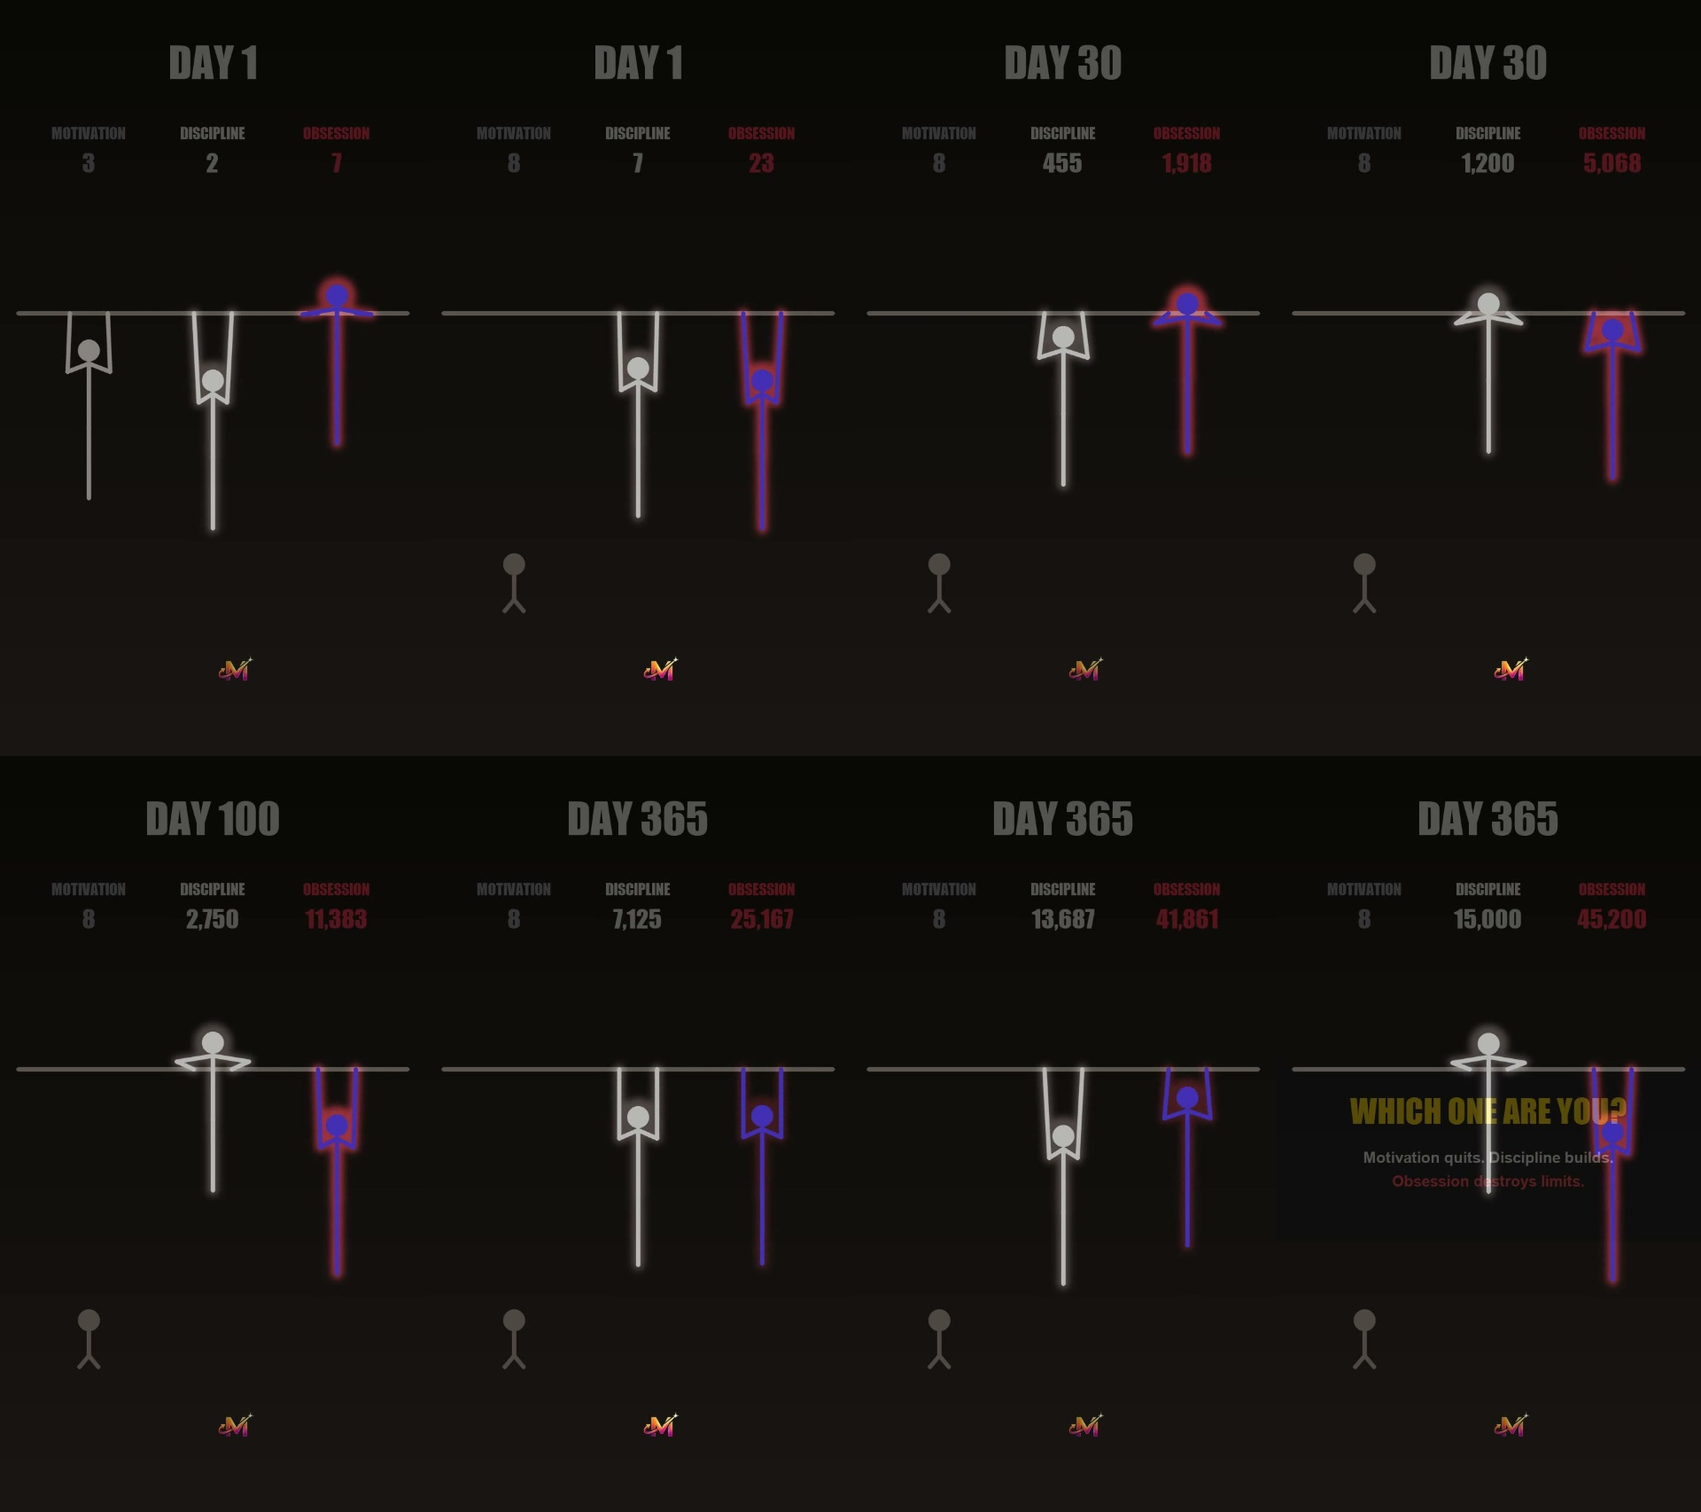
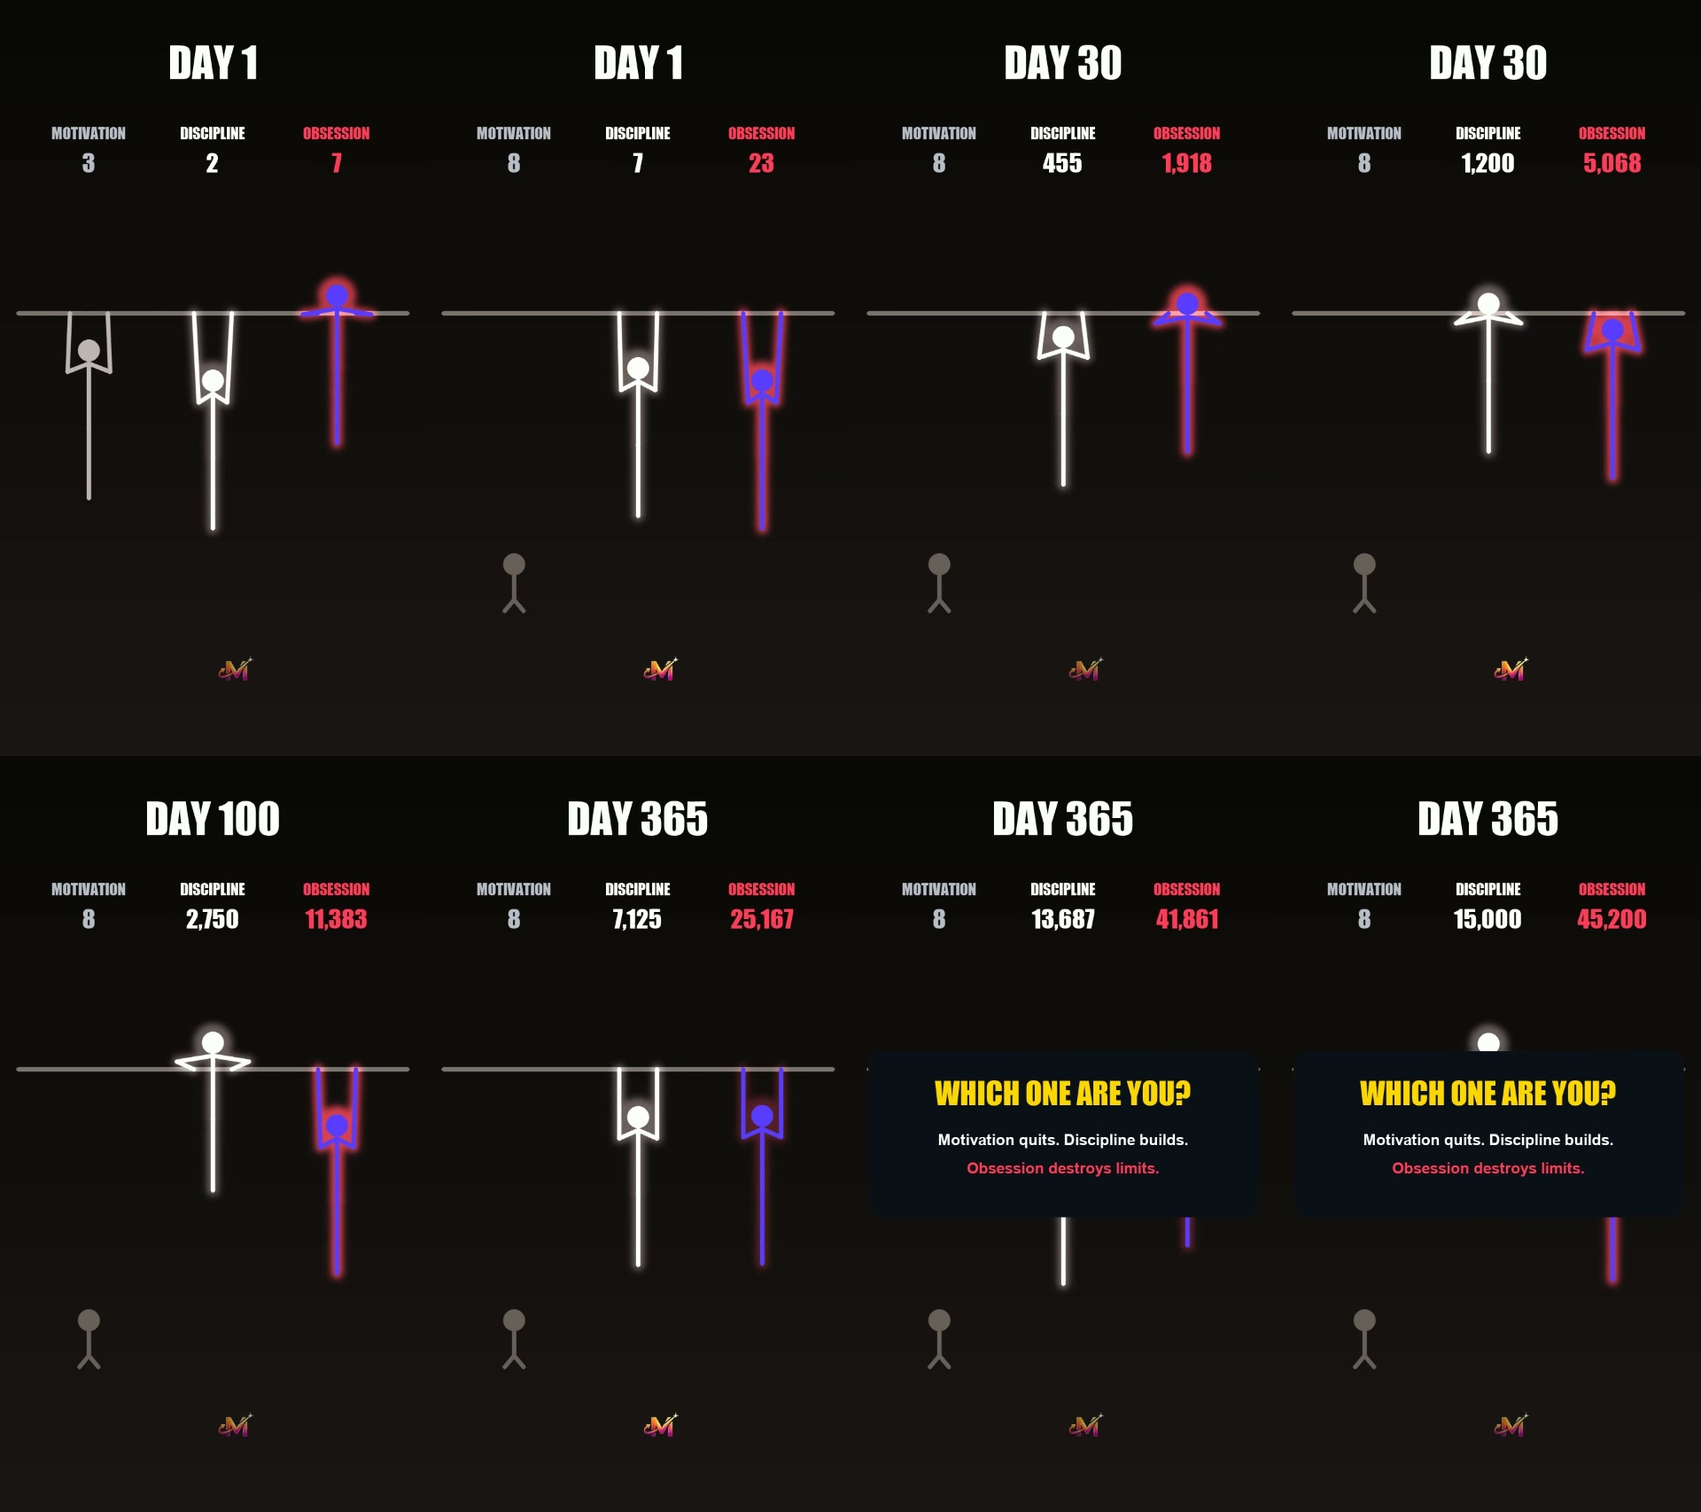
Deploy Motivation Tales: 10 High-CTR Covers, fixed card rendering, and full packet integration

diff --git a/nalkudil-social-studio/catalog.js b/nalkudil-social-studio/catalog.js
@@ -11612,7 +11612,7 @@ window.PUBLISHING_CATALOG = {
     "situation": "365-Day Pull-Up Test: Motivation quits at rep 8, Discipline builds daily, Obsession destroys limits.",
     "moral": "Motivation quits at rep 8. Discipline builds daily. Obsession has no limits. Which one are you?",
     "video_filename": "motivation_tales_001_discipline_vs_obsession_master.mp4",
-    "cover_url": "assets/motivations/mcr_verification_motivation_001.jpg",
+    "cover_url": "assets/motivations/cover_motivation_001.jpg",
     "title": "Motivation Tales: Ep 1 | Motivation vs Discipline vs Obsession ⚡ #Shorts #TheLoop",
     "description": "\"Motivation quits at rep 8. Discipline builds daily. Obsession destroys limits. Which one are you?\"\n\n⚡ 365-DAY PULL-UP TEST:\n- Motivation: Day 1 (quits at rep 8).\n- Discipline: Day 365 (15,000 reps, steady consistency).\n- Obsession: Day 365 (45,200 reps, limitless intensity).\n\n───────────────\n⚡ SERIES: Motivation Tales (Minimalist Animated Life Lessons)\n🔁 CHANNEL: The Loop Vid (@theloopvid)\n🕒 DAILY DROP: 10:30 PM IST (Bedtime Mindset Reset)\n───────────────\n\nDaily micro-habits and profound life lessons animated in minimalist looping line-art.\n\n🔔 SUBSCRIBE to @theloopvid for daily 10:30 PM mindset resets!\n\n#Shorts #Motivation #Discipline #Obsession #Mindset #SelfImprovement #TheLoop #Consistency",
     "tags": "shorts, motivation, discipline, obsession, pull up bar, 365 days, mindset, habit building, self improvement, gym motivation, fitness motivation, motivational quotes, the loop, theloopvid, daily motivation",
@@ -11628,7 +11628,7 @@ window.PUBLISHING_CATALOG = {
     "situation": "Quitting 1 inch before the giant gold vein vs taking that final swing.",
     "moral": "Most people quit 1 inch before the breakthrough. Never stop swinging.",
     "video_filename": "motivation_tales_002_gold_mine_paradox_master.mp4",
-    "cover_url": "assets/motivations/mcr_verification_motivation_002.jpg",
+    "cover_url": "assets/motivations/cover_motivation_002.jpg",
     "title": "Motivation Tales: Ep 2 | The Gold Mine Paradox (The 1-Inch Rule) ⚡ #Shorts #TheLoop",
     "description": "\"Most people quit 1 inch before the breakthrough. Never stop swinging.\"\n\n⛏ THE 1-INCH RULE:\nTwo miners dig through 100 feet of bedrock:\n- Quitter: Digs 99 feet, gets exhausted, drops pickaxe and walks away right before the gold.\n- Breakthrough: Takes one more swing, shatters the thin rock wall, and finds the gold chamber!\n\n───────────────\n⚡ SERIES: Motivation Tales (Minimalist Animated Life Lessons)\n🔁 CHANNEL: The Loop Vid (@theloopvid)\n🕒 DAILY DROP: 10:30 PM IST (Bedtime Mindset Reset)\n───────────────\n\n🔔 SUBSCRIBE to @theloopvid for daily 10:30 PM mindset resets!\n\n#Shorts #GoldMine #Persistence #NeverGiveUp #Breakthrough #SuccessMindset #TheLoop",
     "tags": "shorts, gold mine paradox, 1 inch rule, never give up, persistence, breakthrough, success mindset, motivation tales, the loop, theloopvid, daily habits",
@@ -11644,7 +11644,7 @@ window.PUBLISHING_CATALOG = {
     "situation": "Falling over yesterday's hurdle vs running today's race unburdened.",
     "moral": "Don't let yesterday's fall spoil today's race. Today is a fresh track.",
     "video_filename": "motivation_tales_003_yesterdays_fall_master.mp4",
-    "cover_url": "assets/motivations/mcr_verification_motivation_003.jpg",
+    "cover_url": "assets/motivations/cover_motivation_003.jpg",
     "title": "Motivation Tales: Ep 3 | Yesterday's Fall (The Runner's Reset) ⚡ #Shorts #TheLoop",
     "description": "\"Don't let yesterday's fall spoil today's race. Today is a fresh track.\"\n\n🏃 THE RUNNER'S RESET:\n- Yesterday: Stumbled on the hurdle, crashed hard on the track, felt defeated.\n- Today: Stepped back on the track, ignored past fear, cleared the hurdle cleanly and crossed the finish line!\n\n───────────────\n⚡ SERIES: Motivation Tales (Minimalist Animated Life Lessons)\n🔁 CHANNEL: The Loop Vid (@theloopvid)\n🕒 DAILY DROP: 10:30 PM IST (Bedtime Mindset Reset)\n───────────────\n\n🔔 SUBSCRIBE to @theloopvid for daily 10:30 PM mindset resets!\n\n#Shorts #Resilience #RunnersMindset #FreshStart #OvercomingFailure #TheLoop #Mindset",
     "tags": "shorts, resilience, runner mindset, fresh start, overcoming failure, the loop, theloopvid, daily motivation, athletic mindset",
@@ -11660,7 +11660,7 @@ window.PUBLISHING_CATALOG = {
     "situation": "Trying to jump onto a 10ft roof in one leap vs laying 1% bricks step-by-step.",
     "moral": "Shortcuts lead to crashes. 1% daily progress builds an unbreakable ladder.",
     "video_filename": "motivation_tales_004_one_percent_staircase_master.mp4",
-    "cover_url": "assets/motivations/mcr_verification_motivation_004.jpg",
+    "cover_url": "assets/motivations/cover_motivation_004.jpg",
     "title": "Motivation Tales: Ep 4 | The 1% Staircase (The Shortcut Illusion) ⚡ #Shorts #TheLoop",
     "description": "\"Shortcuts lead to crashes. 1% daily progress builds an unbreakable ladder.\"\n\n🧱 THE SHORTCUT TRAP:\n- Shortcut Guy: Tries to jump to the summit in one giant leap, slips and crashes repeatedly.\n- 1% Builder: Lays one solid brick every single day, calmly walks up to the summit.\n\n───────────────\n⚡ SERIES: Motivation Tales (Minimalist Animated Life Lessons)\n🔁 CHANNEL: The Loop Vid (@theloopvid)\n🕒 DAILY DROP: 10:30 PM IST (Bedtime Mindset Reset)\n───────────────\n\n🔔 SUBSCRIBE to @theloopvid for daily 10:30 PM mindset resets!\n\n#Shorts #AtomicHabits #DailyProgress #Consistency #Shortcuts #TheLoop #SelfImprovement",
     "tags": "shorts, atomic habits, daily progress, consistency, 1 percent better, shortcuts, the loop, theloopvid, self improvement",
@@ -11676,7 +11676,7 @@ window.PUBLISHING_CATALOG = {
     "situation": "Looking sideways at the next lane causes you to trip over your own feet.",
     "moral": "Looking at their lane makes you lose your footing. Run your own race.",
     "video_filename": "motivation_tales_005_comparison_trap_master.mp4",
-    "cover_url": "assets/motivations/mcr_verification_motivation_005.jpg",
+    "cover_url": "assets/motivations/cover_motivation_005.jpg",
     "title": "Motivation Tales: Ep 5 | The Comparison Trap (Stay in Your Lane) ⚡ #Shorts #TheLoop",
     "description": "\"Looking at their lane makes you lose your footing. Run your own race.\"\n\n👀 STAY IN YOUR LANE:\n- Comparison Runner: Constantly looking sideways at others, loses balance and tumbles.\n- Focused Runner: Laser eyes locked straight on the finish tape, crosses smoothly and wins.\n\n───────────────\n⚡ SERIES: Motivation Tales (Minimalist Animated Life Lessons)\n🔁 CHANNEL: The Loop Vid (@theloopvid)\n🕒 DAILY DROP: 10:30 PM IST (Bedtime Mindset Reset)\n───────────────\n\n🔔 SUBSCRIBE to @theloopvid for daily 10:30 PM mindset resets!\n\n#Shorts #ComparisonTrap #Focus #StayInYourLane #SelfDiscipline #TheLoop #Mindset",
     "tags": "shorts, comparison trap, focus, stay in your lane, self discipline, personal growth, the loop, theloopvid",
@@ -11692,7 +11692,7 @@ window.PUBLISHING_CATALOG = {
     "situation": "Returning fireballs burns your own hands vs serene water shield that dissolves heat.",
     "moral": "Holding anger is drinking poison expecting the other to die. Stay calm, let it evaporate.",
     "video_filename": "motivation_tales_006_absorbing_the_fire_master.mp4",
-    "cover_url": "assets/motivations/mcr_verification_motivation_006.jpg",
+    "cover_url": "assets/motivations/cover_motivation_006.jpg",
     "title": "Motivation Tales: Ep 6 | Absorbing the Fire (Mastering Anger) ⚡ #Shorts #TheLoop",
     "description": "\"Holding anger is drinking poison expecting the other to die. Stay calm, let it evaporate.\"\n\n🔥 ANGER MASTERY:\n- Reaction: Catching the fireball of insults, catching fire, getting burned.\n- Serenity: Standing calm with a cool water shield, letting the insults dissolve into harmless steam.\n\n───────────────\n⚡ SERIES: Motivation Tales (Minimalist Animated Life Lessons)\n🔁 CHANNEL: The Loop Vid (@theloopvid)\n🕒 DAILY DROP: 10:30 PM IST (Bedtime Mindset Reset)\n───────────────\n\n🔔 SUBSCRIBE to @theloopvid for daily 10:30 PM mindset resets!\n\n#Shorts #AngerManagement #EmotionalIntelligence #Stoicism #InnerPeace #TheLoop #Mindset",
     "tags": "shorts, anger management, emotional intelligence, stoicism, inner peace, self control, the loop, theloopvid",
@@ -11708,7 +11708,7 @@ window.PUBLISHING_CATALOG = {
     "situation": "Crawling up the mountain with 'PAST REGRETS' boulder vs unbuckling and sprinting to peak.",
     "moral": "You cannot climb to new heights carrying old baggage. Drop what weighs you down.",
     "video_filename": "motivation_tales_007_heavy_backpack_master.mp4",
-    "cover_url": "assets/motivations/mcr_verification_motivation_007.jpg",
+    "cover_url": "assets/motivations/cover_motivation_007.jpg",
     "title": "Motivation Tales: Ep 7 | The Heavy Backpack (Dropping the Past) ⚡ #Shorts #TheLoop",
     "description": "\"You cannot climb to new heights carrying old baggage. Drop what weighs you down.\"\n\n🎒 DROP THE PAST:\n- Carrying Regrets: Crushed under a 100kg boulder of yesterday's mistakes, crawling on knees.\n- Letting Go: Unbuckling the straps, letting the weight drop off the cliff, sprinting upright to the peak!\n\n───────────────\n⚡ SERIES: Motivation Tales (Minimalist Animated Life Lessons)\n🔁 CHANNEL: The Loop Vid (@theloopvid)\n🕒 DAILY DROP: 10:30 PM IST (Bedtime Mindset Reset)\n───────────────\n\n🔔 SUBSCRIBE to @theloopvid for daily 10:30 PM mindset resets!\n\n#Shorts #LettingGo #DropTheBaggage #MovingForward #ClimbHigher #TheLoop #MindsetReset",
     "tags": "shorts, letting go, drop the baggage, moving forward, climb higher, emotional baggage, the loop, theloopvid",
@@ -11724,7 +11724,7 @@ window.PUBLISHING_CATALOG = {
     "situation": "Hitting snooze in a thunder rain vs lacing shoes and conquering the morning.",
     "moral": "The hardest battle is between you and your alarm clock. Win the morning, win the day.",
     "video_filename": "motivation_tales_008_5am_storm_master.mp4",
-    "cover_url": "assets/motivations/mcr_verification_motivation_008.jpg",
+    "cover_url": "assets/motivations/cover_motivation_008.jpg",
     "title": "Motivation Tales: Ep 8 | The 5:00 AM Storm (Winning the First Battle) ⚡ #Shorts #TheLoop",
     "description": "\"The hardest battle is between you and your alarm clock. Win the morning, win the day.\"\n\n⏰ 5:00 AM DECIDES EVERYTHING:\n- Defeat: Reaches for phone, hits snooze, hides under blanket, loses the day.\n- Victory: Kicks off blanket, laces running shoes, steps into the rain with unstoppable grit!\n\n───────────────\n⚡ SERIES: Motivation Tales (Minimalist Animated Life Lessons)\n🔁 CHANNEL: The Loop Vid (@theloopvid)\n🕒 DAILY DROP: 10:30 PM IST (Bedtime Mindset Reset)\n───────────────\n\n🔔 SUBSCRIBE to @theloopvid for daily 10:30 PM mindset resets!\n\n#Shorts #5AMClub #MorningRoutine #Discipline #EarlyBird #WinTheDay #TheLoop",
     "tags": "shorts, 5am club, morning routine, discipline, early bird, win the day, alarm clock, the loop, theloopvid",
@@ -11740,7 +11740,7 @@ window.PUBLISHING_CATALOG = {
     "situation": "When the city skyline goes dark, that single solitary desk lamp keeps glowing.",
     "moral": "The work you do in the dark puts you in the light. Keep grinding.",
     "video_filename": "motivation_tales_009_solitary_grind_master.mp4",
-    "cover_url": "assets/motivations/mcr_verification_motivation_009.jpg",
+    "cover_url": "assets/motivations/cover_motivation_009.jpg",
     "title": "Motivation Tales: Ep 9 | The Solitary Grind (When the Lights Go Out) ⚡ #Shorts #TheLoop",
     "description": "\"The work you do in the dark puts you in the light. Keep grinding.\"\n\n🌙 THE SOLITARY GRIND:\n- 10:00 PM: The city is buzzing, all windows lit.\n- 12:00 AM: Lights go out one by one.\n- 03:00 AM: Total darkness everywhere... except ONE solitary desk lamp where a creator is grinding.\n- Fast Forward: That solitary light explodes into a worldwide stadium spotlight!\n\n───────────────\n⚡ SERIES: Motivation Tales (Minimalist Animated Life Lessons)\n🔁 CHANNEL: The Loop Vid (@theloopvid)\n🕒 DAILY DROP: 10:30 PM IST (Bedtime Mindset Reset)\n───────────────\n\n🔔 SUBSCRIBE to @theloopvid for daily 10:30 PM mindset resets!\n\n#Shorts #SolitaryGrind #LateNightWork #GrindInTheDark #SuccessStory #TheLoop #Discipline",
     "tags": "shorts, solitary grind, late night work, grind in the dark, success story, coding at night, study motivation, the loop, theloopvid",
@@ -11756,7 +11756,7 @@ window.PUBLISHING_CATALOG = {
     "situation": "Digging up soil every week vs 4 years of silent unseen roots exploding 80ft.",
     "moral": "Growth is silent before it is exponential. Trust the unseen roots.",
     "video_filename": "motivation_tales_010_bamboo_seed_master.mp4",
-    "cover_url": "assets/motivations/mcr_verification_motivation_010.jpg",
+    "cover_url": "assets/motivations/cover_motivation_010.jpg",
     "title": "Motivation Tales: Ep 10 | The Bamboo Seed (The Rule of Silent Roots) ⚡ #Shorts #TheLoop",
     "description": "\"Growth is silent before it is exponential. Trust the unseen roots.\"\n\n🎋 THE BAMBOO RULE:\n- Impatience: Digs up the seed every week asking 'Why isn't it growing?!' and kills it.\n- Faith: Waters the empty dirt for 4 years with zero visible growth above ground.\n- Year 5: The bamboo shoots 80 feet into the sky in just 6 weeks!\n\n───────────────\n⚡ SERIES: Motivation Tales (Minimalist Animated Life Lessons)\n🔁 CHANNEL: The Loop Vid (@theloopvid)\n🕒 DAILY DROP: 10:30 PM IST (Bedtime Mindset Reset)\n───────────────\n\n🔔 SUBSCRIBE to @theloopvid for daily 10:30 PM mindset resets!\n\n#Shorts #ChineseBamboo #SilentGrowth #Patience #ExponentialGrowth #TheLoop #TrustTheProcess",
     "tags": "shorts, chinese bamboo, silent growth, patience, exponential growth, trust the process, the loop, theloopvid, wisdom",

diff --git a/nalkudil-social-studio/index.html b/nalkudil-social-studio/index.html
@@ -1199,15 +1199,7 @@
           { id: 'pending', label: '⏳ Pending' },
           { id: 'published', label: '✅ Published' }
         );
-      } else if (currentSuite === 'motivation_tales') {
-          const cat = (item.category || '').toLowerCase();
-          if (currentFilter === 'ready' && item.status !== 'READY') return false;
-          if (currentFilter === 'cat_discipline' && !cat.includes('discipline')) return false;
-          if (currentFilter === 'cat_perseverance' && !cat.includes('persistence')) return false;
-          if (currentFilter === 'cat_mindset' && !cat.includes('mindset')) return false;
-        } else if (currentSuite === 'motivation_tales') {
-          cardHtml = buildMotivationTalesCard(item, pubSet.has(item.episode));
-        } else if (currentSuite === 'comic_tales') {
+      } else if (currentSuite === 'comic_tales') {
         chips.push(
           { id: 'all', label: 'All (50)' },
           { id: 'ready', label: '🚀 Ready (5)' },
@@ -1282,23 +1274,11 @@
           if (currentFilter === 'cat_scifi' && !cat.includes('sci')) return false;
           if (currentFilter === 'cat_hope' && !cat.includes('hope')) return false;
         } else if (currentSuite === 'motivation_tales') {
-        chips.push(
-          { id: 'all', label: 'All (10)' },
-          { id: 'ready', label: '🚀 Ready (10)' },
-          { id: 'cat_discipline', label: '🛡 Discipline & Habits' },
-          { id: 'cat_perseverance', label: '⛏ Persistence & Focus' },
-          { id: 'cat_mindset', label: '🌱 Mindset & Growth' },
-          { id: 'pending', label: '⏳ Pending' },
-          { id: 'published', label: '✅ Published' }
-        );
-      } else if (currentSuite === 'motivation_tales') {
           const cat = (item.category || '').toLowerCase();
           if (currentFilter === 'ready' && item.status !== 'READY') return false;
           if (currentFilter === 'cat_discipline' && !cat.includes('discipline')) return false;
           if (currentFilter === 'cat_perseverance' && !cat.includes('persistence')) return false;
           if (currentFilter === 'cat_mindset' && !cat.includes('mindset')) return false;
-        } else if (currentSuite === 'motivation_tales') {
-          cardHtml = buildMotivationTalesCard(item, pubSet.has(item.episode));
         } else if (currentSuite === 'comic_tales') {
           const cat = item.category || '';
           if (currentFilter === 'ready' && item.status !== 'READY 🚀') return false;
@@ -1355,22 +1335,6 @@
           cardHtml = buildSidIshaCard(item, pubSet.has(item.day));
         } else if (currentSuite === 'inkling_ig') {
           cardHtml = buildInklingIGCard(item, pubSet.has(item.episode));
-        } else if (currentSuite === 'motivation_tales') {
-        chips.push(
-          { id: 'all', label: 'All (10)' },
-          { id: 'ready', label: '🚀 Ready (10)' },
-          { id: 'cat_discipline', label: '🛡 Discipline & Habits' },
-          { id: 'cat_perseverance', label: '⛏ Persistence & Focus' },
-          { id: 'cat_mindset', label: '🌱 Mindset & Growth' },
-          { id: 'pending', label: '⏳ Pending' },
-          { id: 'published', label: '✅ Published' }
-        );
-      } else if (currentSuite === 'motivation_tales') {
-          const cat = (item.category || '').toLowerCase();
-          if (currentFilter === 'ready' && item.status !== 'READY') return false;
-          if (currentFilter === 'cat_discipline' && !cat.includes('discipline')) return false;
-          if (currentFilter === 'cat_perseverance' && !cat.includes('persistence')) return false;
-          if (currentFilter === 'cat_mindset' && !cat.includes('mindset')) return false;
         } else if (currentSuite === 'motivation_tales') {
           cardHtml = buildMotivationTalesCard(item, pubSet.has(item.episode));
         } else if (currentSuite === 'comic_tales') {
